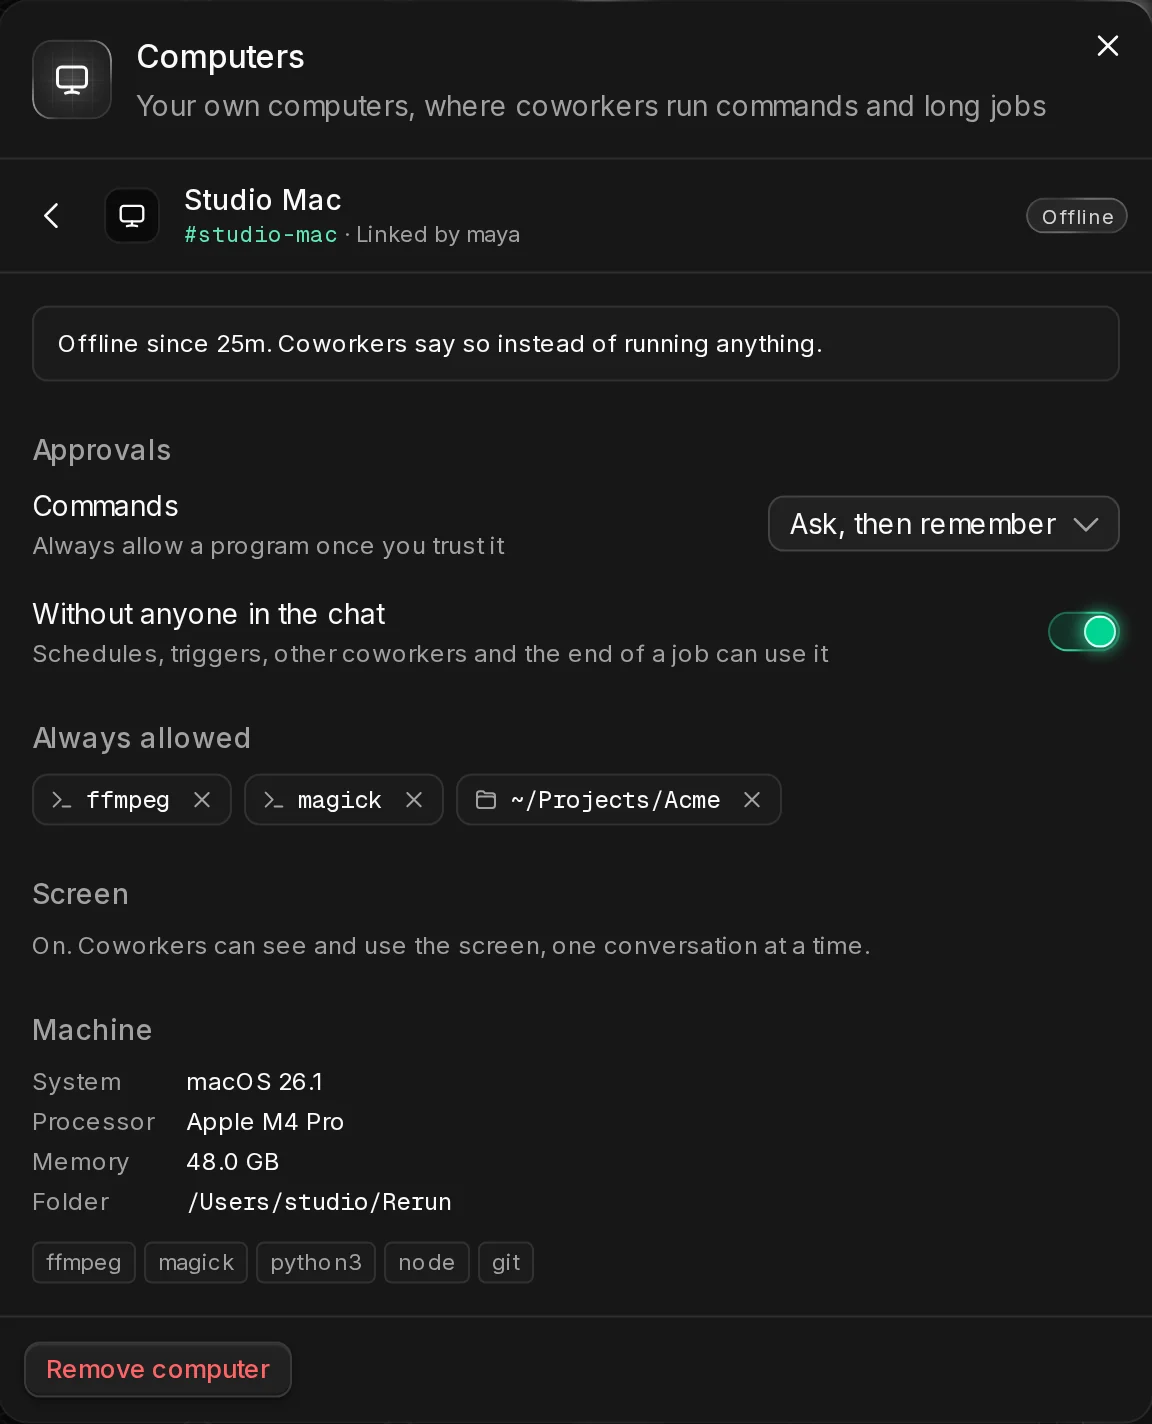
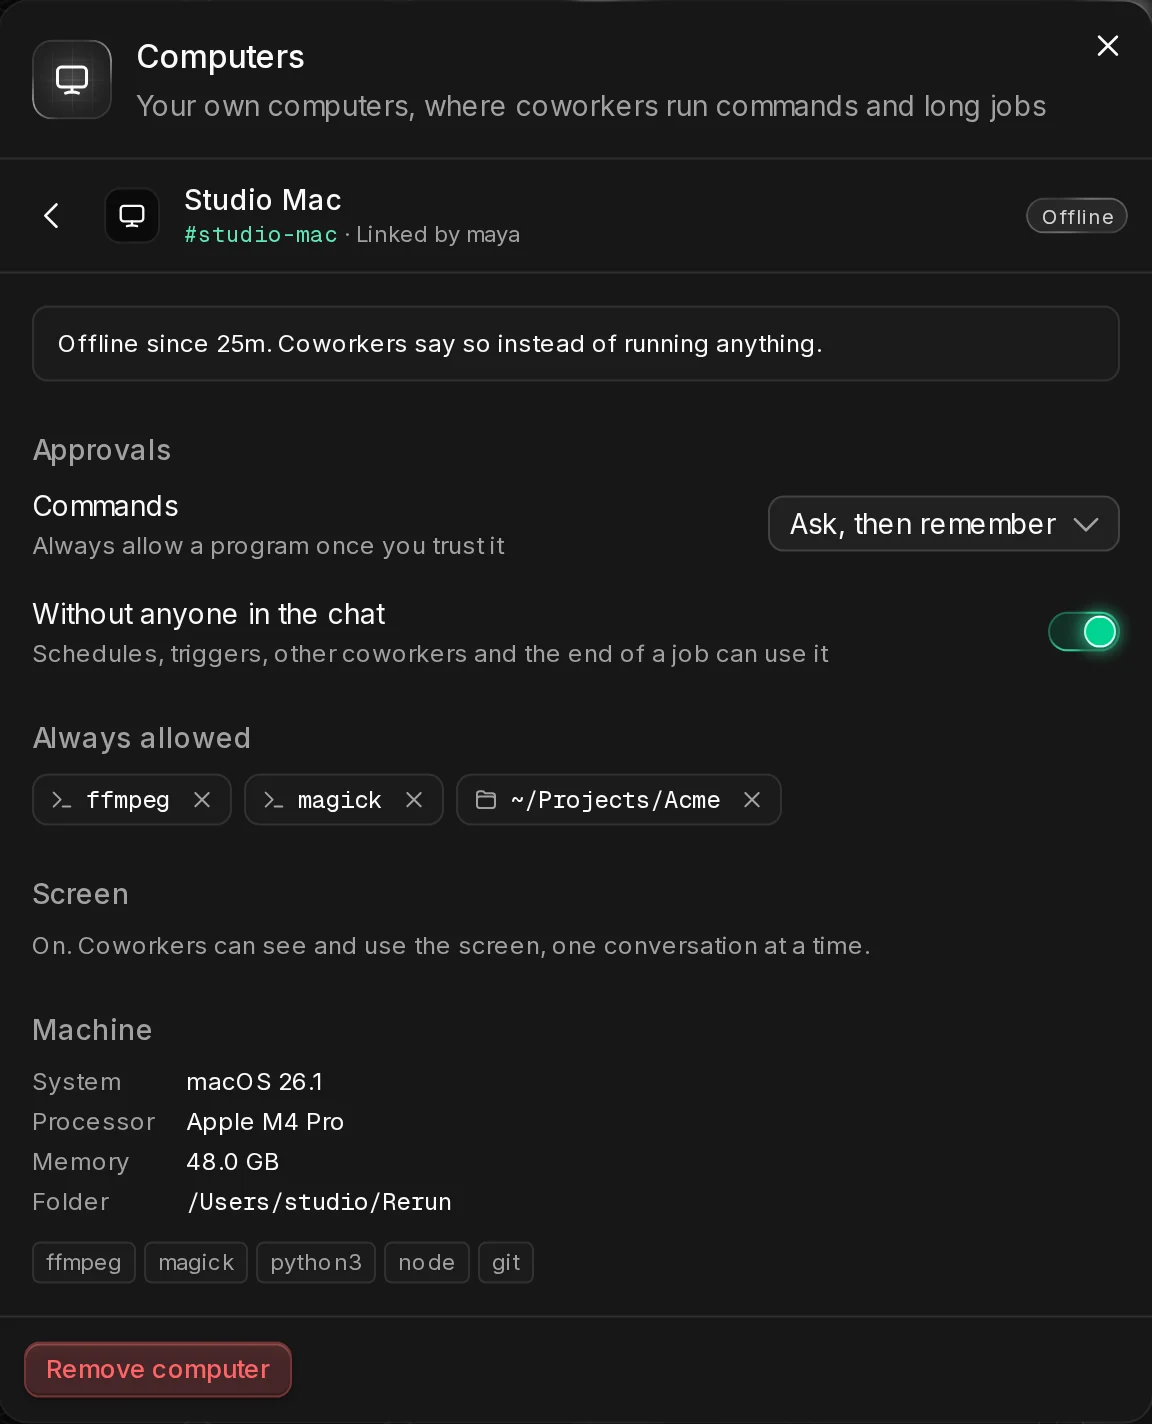
fix(computers): show Remove and Unlink as destructive buttons
The Remove button of a computer's detail and the Unlink button of This computer
use the destructive variant instead of an outline button with red text. The
Computers and desktop app settings screenshots of the docs are taken again.

Closes RER-153

Changed region(s): [[0.0, 0.927, 0.25, 0.9888]]

diff --git a/apps/ui/components/computers/ComputersPanel.tsx b/apps/ui/components/computers/ComputersPanel.tsx
@@ -365,7 +365,7 @@ function ComputerDetail({ computer, onBack, onChanged }: { computer: ComputerIte
 
             <div className="border-t p-3">
                 <TooltipDisabledReason reason={readOnly ? t('managersOnly') : undefined}>
-                    <Button variant="outline" size="sm" className="text-destructive" disabled={readOnly} onClick={() => setConfirmRemove(true)}>
+                    <Button variant="destructive" size="sm" disabled={readOnly} onClick={() => setConfirmRemove(true)}>
                         {tDetail('remove')}
                     </Button>
                 </TooltipDisabledReason>

diff --git a/apps/ui/components/computers/ThisComputer.tsx b/apps/ui/components/computers/ThisComputer.tsx
@@ -172,7 +172,7 @@ export function ThisComputerSection() {
                     </Field>
                     {here && (
                         <div>
-                            <Button size="sm" variant="outline" className="text-destructive" onClick={() => setUnlinking(here)}>
+                            <Button size="sm" variant="destructive" onClick={() => setUnlinking(here)}>
                                 {t('unlink')}
                             </Button>
                         </div>
